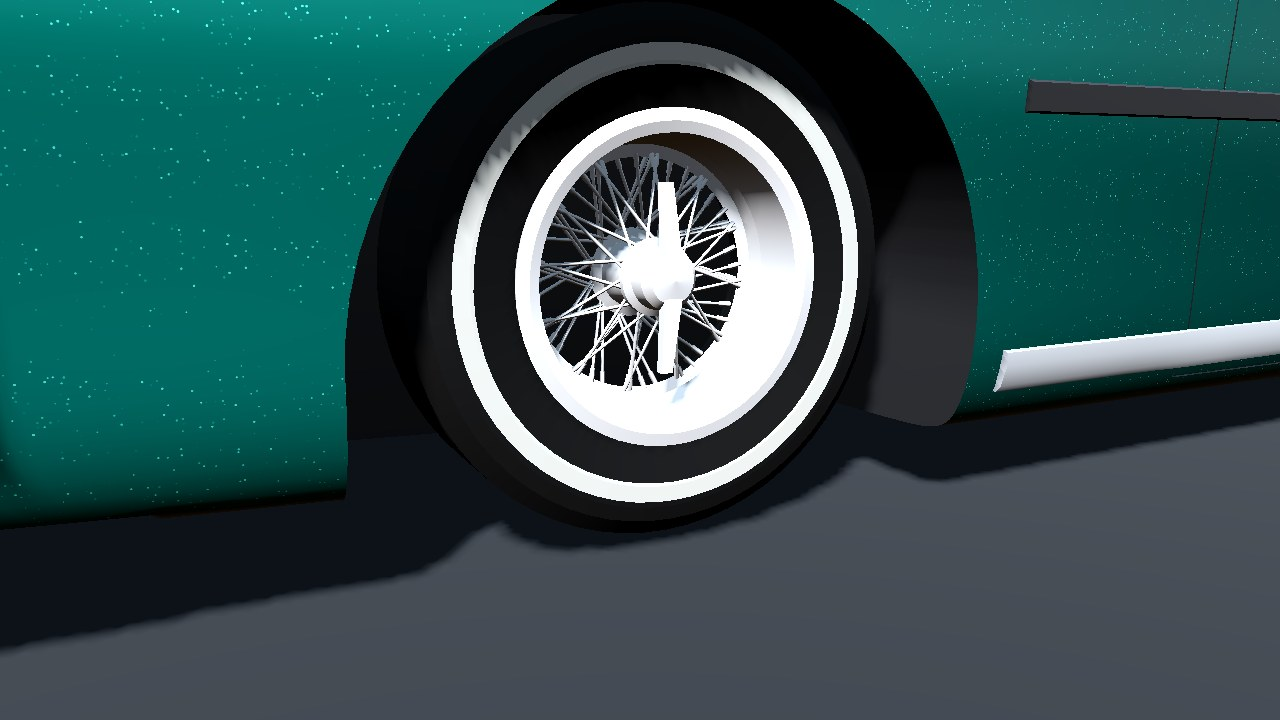
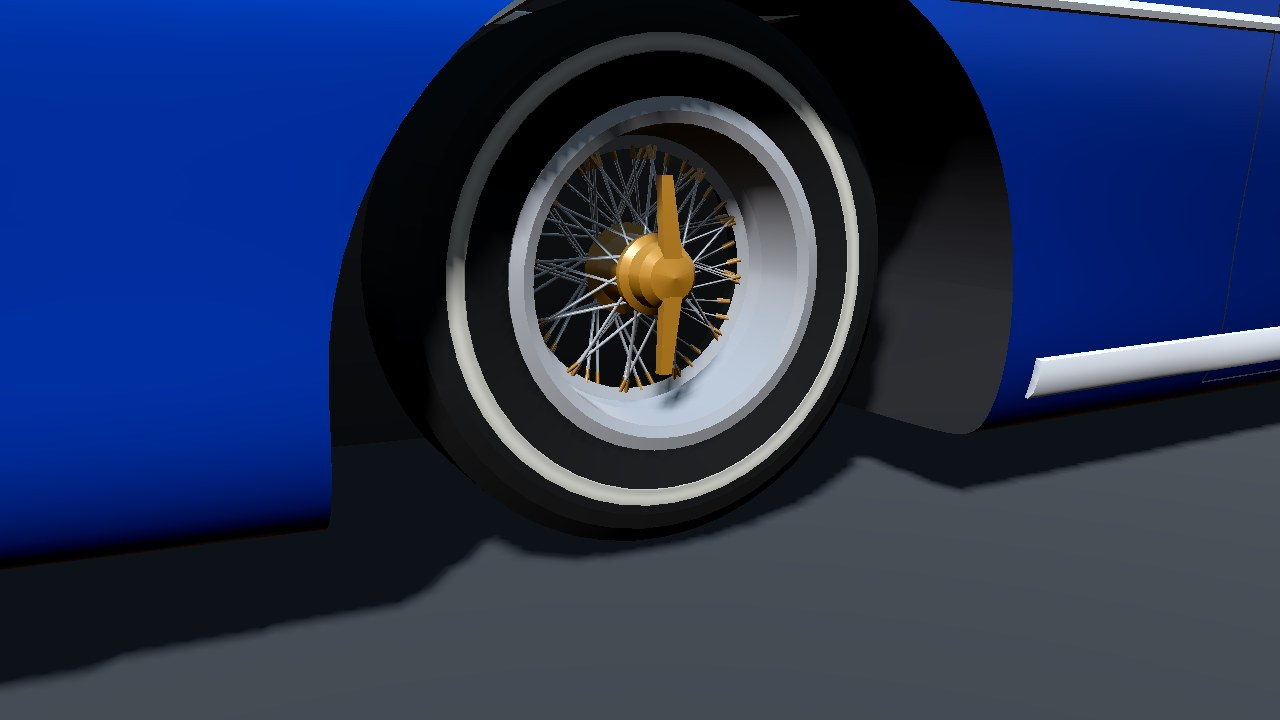
Lowriders: re-shot after review

diff --git a/README.md b/README.md
@@ -22,3 +22,9 @@ The meet: Z#4 at x 810-900, z ~612 on the default seed (`LOWRIDER_MEET=1` forces
 
 Frame cost at the meet EYE (opengl3 1280x720, 21:00): LOWRIDERS=0 6.449 M triangles / 2,840 draws,
 a meet night 6.980 M / 3,102 (+8 %, +262 draws: ten cars and twenty people at a kerb that was empty).
+
+**Re-shot after the lead's review (same eyes):** the flake is ~1 mm, tilted per flake and lit only
+where its mirror catches the sun (no white specks; a faint lift past a pixel); the whitewall is a
+17 mm off-white band with the black tyre wall round it; the chrome stand-in on opengl3 is a darker
+satin, so the rim lip no longer reads as part of the whitewall. The pale splotches and crack lines
+on the road in 02 are road wear and are in 01 (LOWRIDERS=0) too: not the meet.
